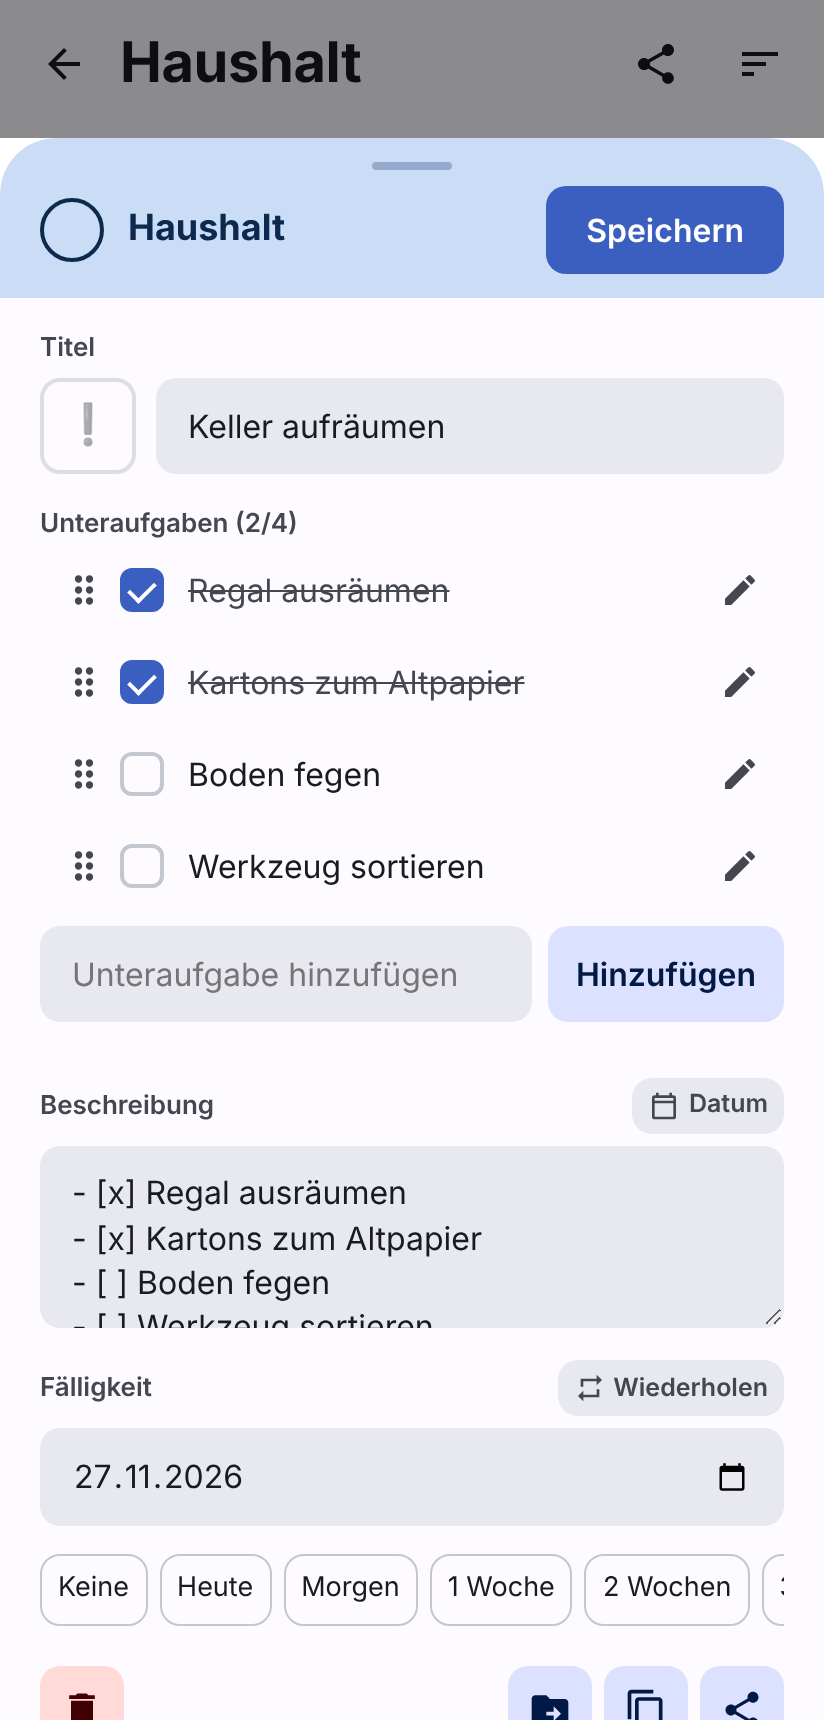
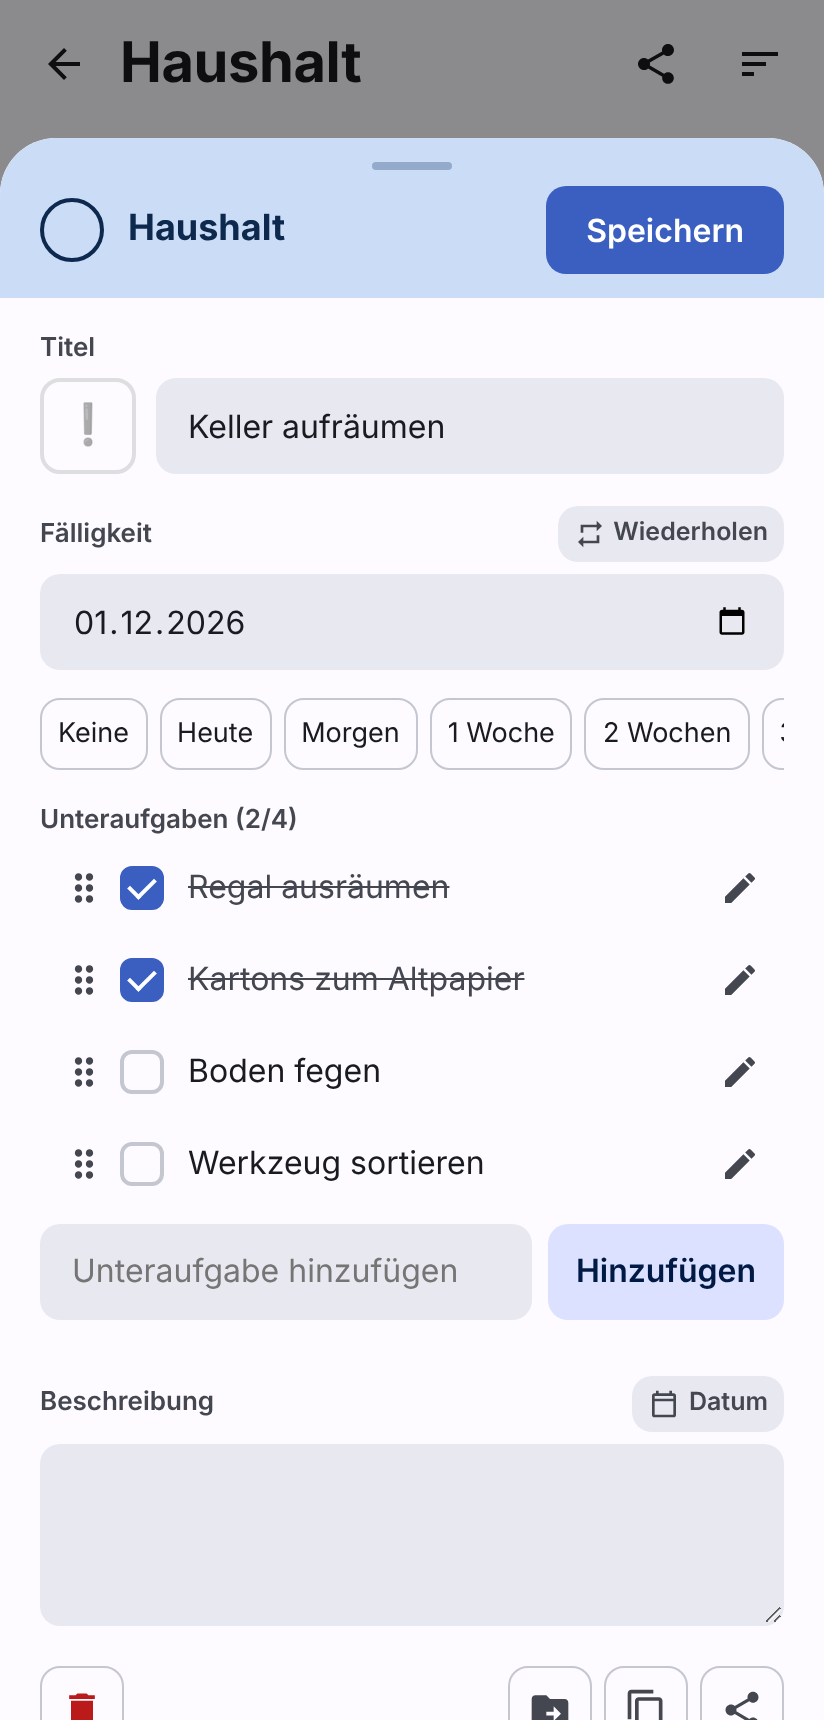
1.1.3: Punkte aus dem UI-Review
- Unteraufgaben im Dialog nur als Kästchen, Textfeld mit freiem Text
- Bearbeiten in der Reihenfolge von Neue Aufgabe
- Untere Dialog-Knöpfe umrandet statt gefüllt
- Einkaufsansicht ohne Plus-Knopf, Wochentitel "KW 48/49",
  Hinweis zum App-Namen ohne manifest.json
- Test e2e44, e2e33 angepasst, Screenshots neu

Claude-Session: https://claude.ai/code/session_01BsJ96owDJnezbsoGNxPtMU

diff --git a/app/js/sheet.js b/app/js/sheet.js
@@ -1,7 +1,7 @@
 // Bearbeiten-Dialog (Bottom Sheet) für einen Eintrag. Eigene Adresse: #/liste/<entity>/<uid>.
 // Das Sheet wird nur einmal gebaut. Spätere Änderungen im Store zeichnen es nicht neu, getippter Text bleibt erhalten.
 import { h, icon } from './ui.js';
-import { stripPrio, isPrio, withPrio, parseDue, withTimeOf, isCompleted, parseChecklist, toggleChecklistLine, addChecklistLine, setChecklistText, removeLine, insertLine, moveChecklistLine, moveChecklistLineToEnd, getRecurrence, stripRecurrence, setRecurrence, RECURRENCES, recurrenceLabel } from './rules.js';
+import { stripPrio, isPrio, withPrio, parseDue, withTimeOf, isCompleted, parseChecklist, splitChecklist, joinChecklist, toggleChecklistLine, addChecklistLine, setChecklistText, removeLine, insertLine, moveChecklistLine, moveChecklistLineToEnd, getRecurrence, stripRecurrence, setRecurrence, RECURRENCES, recurrenceLabel } from './rules.js';
 import { attachReorder } from './reorder.js';
 import { recurrenceButton } from './recurfield.js';
 import { attachSwipe } from './swipe.js';
@@ -102,7 +102,12 @@ export class ItemSheet {
     // Die Zeile "🔁 …" steht nicht im Textfeld, sondern als Auswahl "Wiederholen". Gespeichert wird sie wieder in der Beschreibung.
     const storedRecurrence = getRecurrence(item.description);
     const withStoredRecurrence = (text) => setRecurrence(text, storedRecurrence);
-    if (description) description.value = stripRecurrence(item.description ?? '');
+    // Unteraufgaben stehen ebenfalls nicht im Textfeld, sondern als Kästchen darüber. body hält die ganze Beschreibung
+    // (ohne Wiederholung), das Textfeld nur den freien Text. Beim Speichern wird beides wieder zusammengesetzt.
+    let body = stripRecurrence(item.description ?? '');
+    if (description) description.value = splitChecklist(body).text;
+    // Ganze Beschreibung aus Textfeld und Unteraufgaben. Unverändertes Textfeld: body bleibt wie er ist (keine unnötige Änderung).
+    const currentDescription = () => (description.value === splitChecklist(body).text ? body : joinChecklist(description.value, splitChecklist(body).checklist));
     if (description) description.id = 'sheet-description';
     // Kleiner Knopf: heutiges Datum (TT.MM.JJJJ) als Anfang der ersten Zeile der Beschreibung.
     // Nach dem Datum ein Leerzeichen, dort steht der Cursor zum Weiterschreiben. Vorhandener Text folgt in der nächsten Zeile. Gespeichert wird erst mit Speichern.
@@ -149,15 +154,16 @@ export class ItemSheet {
           t('sheet.subtaskButton'),
         )
       : null;
+    // Neue Unteraufgaben sofort speichern, zusammen mit dem freien Text, wie er gerade im Textfeld steht.
     const persistDescription = (next) => {
-      const previous = description.value;
-      description.value = next;
+      const previous = body;
+      body = joinChecklist(description.value, splitChecklist(next).checklist);
       renderChecklist();
-      const stored = withStoredRecurrence(next).trim() || null;
+      const stored = withStoredRecurrence(body).trim() || null;
       this.repo.updateItem(list.id, item.uid, { description: stored }).then(
         () => (item = { ...item, description: stored }),
         (err) => {
-          description.value = previous;
+          body = previous;
           renderChecklist();
           this.#fail(err);
         },
@@ -168,7 +174,7 @@ export class ItemSheet {
       const text = addInput.value.trim();
       if (!text) return;
       addInput.value = '';
-      persistDescription(addChecklistLine(description.value, text));
+      persistDescription(addChecklistLine(body, text));
     };
     addInput.addEventListener('keydown', (event) => {
       if (event.key === 'Enter') {
@@ -178,13 +184,13 @@ export class ItemSheet {
     });
     // Nach links wischen löscht die Unteraufgabe. Rückgängig setzt dieselbe Zeile an dieselbe Stelle zurück.
     const removeSub = (entry) => {
-      const { text, line } = removeLine(description.value, entry.index);
+      const { text, line } = removeLine(body, entry.index);
       persistDescription(text);
       this.toast.show(t('sheet.subtaskDeleted'), {
         actionLabel: t('common.undo'),
         onAction: () => {
           const stored = this.store.get().items[list.id]?.find((candidate) => candidate.uid === item.uid)?.description;
-          const next = insertLine(stored != null ? stripRecurrence(stored) : description.value, entry.index, line);
+          const next = insertLine(stored != null ? stripRecurrence(stored) : body, entry.index, line);
           if (this.#key === key) persistDescription(next);
           else this.repo.updateItem(list.id, item.uid, { description: withStoredRecurrence(next).trim() || null }).catch((err) => this.#fail(err));
         },
@@ -192,7 +198,7 @@ export class ItemSheet {
     };
     function renderChecklist() {
       if (!checklistBox) return;
-      const { items, total, done } = parseChecklist(description.value);
+      const { items, total, done } = parseChecklist(body);
       const rows = items.map((entry) => {
         const button = h(
           'button',
@@ -202,7 +208,7 @@ export class ItemSheet {
             role: 'checkbox',
             'aria-checked': String(entry.checked),
             onclick: () => {
-              let next = toggleChecklistLine(description.value, entry.index);
+              let next = toggleChecklistLine(body, entry.index);
               if (!entry.checked && getSubDoneLast()) next = moveChecklistLineToEnd(next, entry.index);
               persistDescription(next);
             },
@@ -219,7 +225,7 @@ export class ItemSheet {
             if (finished) return;
             finished = true;
             const text = input.value.trim();
-            if (save && text && text !== entry.text) persistDescription(setChecklistText(description.value, entry.index, text));
+            if (save && text && text !== entry.text) persistDescription(setChecklistText(body, entry.index, text));
             else renderChecklist();
           };
           input.addEventListener('keydown', (event) => {
@@ -247,7 +253,7 @@ export class ItemSheet {
       });
       const subList = h('ul', { class: 'plain-list sub-list' }, rows);
       attachReorder(subList, () => checklistBox.closest('.sheet'), (uid, previousUid) =>
-        persistDescription(moveChecklistLine(description.value, Number(uid), previousUid === null ? null : Number(previousUid))),
+        persistDescription(moveChecklistLine(body, Number(uid), previousUid === null ? null : Number(previousUid))),
       );
       // Ohne Unteraufgaben bleibt der Bereich zu, bis "+ Unteraufgabe" angetippt wird
       checklistBox.hidden = total === 0 && !subsOpen;
@@ -259,12 +265,11 @@ export class ItemSheet {
       );
     }
     renderChecklist();
-    if (description) description.addEventListener('input', renderChecklist);
 
     // Links, Adressen und Nummern aus Titel und Beschreibung als antippbare Knöpfe.
     const linkBox = h('div', { class: 'link-chips', role: 'group', 'aria-label': t('sheet.links'), hidden: true });
     const renderLinks = () => {
-      const found = findLinks(`${title.value}\n${description?.value ?? ''}`);
+      const found = findLinks(`${title.value}\n${description ? currentDescription() : ''}`);
       linkBox.replaceChildren(
         ...found.map((entry) =>
           h(
@@ -320,17 +325,8 @@ export class ItemSheet {
         h('div', { class: 'sheet-handle' }),
         h('div', { class: 'sheet-head sheet-head-edit' }, done, h('span', { class: 'sheet-band-name' }, list.name), save),
       ),
+      // Gleiche Reihenfolge wie bei einer neuen Aufgabe: Titel, Fälligkeit, Unteraufgaben, Beschreibung
       h('div', { class: 'field' }, h('label', { class: 'field-label', for: 'sheet-title' }, t('item.title')), h('div', { class: 'title-row' }, prio, title)),
-      checklistBox,
-      linkBox,
-      description
-        ? h(
-            'div',
-            { class: 'field' },
-            h('div', { class: 'label-row' }, h('label', { class: 'field-label', for: 'sheet-description' }, t('item.description')), h('span', { class: 'label-btns' }, subButton, dateStamp)),
-            description,
-          )
-        : null,
       due
         ? h(
             'div',
@@ -340,13 +336,23 @@ export class ItemSheet {
             quickDates(due),
           )
         : null,
+      checklistBox,
+      description
+        ? h(
+            'div',
+            { class: 'field' },
+            h('div', { class: 'label-row' }, h('label', { class: 'field-label', for: 'sheet-description' }, t('item.description')), h('span', { class: 'label-btns' }, subButton, dateStamp)),
+            description,
+          )
+        : null,
+      linkBox,
       h('div', { class: 'sheet-actions' }, actions),
     );
 
     title.addEventListener('input', () => (save.disabled = title.value.trim() === ''));
     form.addEventListener('submit', (event) => {
       event.preventDefault();
-      this.#save(list, item, { title, prio, description, due, originalDue, recurrence: recurrence?.state ?? null, done });
+      this.#save(list, item, { title, prio, description, descriptionText: description ? currentDescription : null, due, originalDue, recurrence: recurrence?.state ?? null, done });
     });
 
     const scrim = h('div', { class: 'sheet-scrim', onclick: () => this.#leave() });
@@ -380,7 +386,7 @@ export class ItemSheet {
     if (summary !== item.summary) changes.summary = summary;
     if (fields.description) {
       const recurrence = fields.recurrence ? fields.recurrence.value || null : getRecurrence(item.description);
-      const next = setRecurrence(fields.description.value, recurrence).trim() || null;
+      const next = setRecurrence(fields.descriptionText(), recurrence).trim() || null;
       if (next !== (item.description || null)) changes.description = next;
     }
     if (fields.due) {

diff --git a/app/js/rules.js b/app/js/rules.js
@@ -224,6 +224,21 @@ export function moveChecklistLineToEnd(description, index) {
   return lines.join('\n');
 }
 
+// Beschreibung für den Dialog aufteilen: freier Text (ohne Unteraufgaben) und die Unteraufgaben-Zeilen.
+export function splitChecklist(description) {
+  const lines = String(description ?? '').split('\n');
+  const text = lines.filter((line) => !CHECK_LINE.test(line));
+  const checklist = lines.filter((line) => CHECK_LINE.test(line));
+  return { text: text.join('\n').replace(/^\s*\n/, '').replace(/\s+$/, ''), checklist: checklist.join('\n') };
+}
+
+// Wieder zusammensetzen: freier Text, darunter die Unteraufgaben, ein Erledigt-Datum bleibt die letzte Zeile.
+export function joinChecklist(text, checklist) {
+  const lines = String(text ?? '').replace(/\s+$/, '').split('\n');
+  const stamp = DONE_STAMP.test(lines.at(-1) ?? '') ? lines.pop() : '';
+  return [lines.join('\n').replace(/\s+$/, ''), checklist, stamp].filter(Boolean).join('\n');
+}
+
 // Erledigt-Datum: letzte Zeile "✓ 08.11.2026". Beim Wieder-Öffnen fällt sie weg.
 const DONE_STAMP = /^✓ \S+$/;
 const dateStamp = (date) => date.toLocaleDateString(locale, { day: '2-digit', month: '2-digit', year: 'numeric' });

diff --git a/app/js/main.js b/app/js/main.js
@@ -160,7 +160,8 @@ function renderNow() {
   sortButton.classList.toggle('active', sortMode.value && !sortButton.hidden);
   sortButton.setAttribute('aria-pressed', String(sortMode.value));
   currentListId = view.name === 'list' ? view.id : null;
-  fab.hidden = !['lists', 'list'].includes(view.name) || !store.get().lists.some((list) => list.available && list.features.create);
+  // In der Einkaufsansicht kommt Neues über das Feld oben, der Plus-Knopf würde nur Kacheln verdecken
+  fab.hidden = !['lists', 'list'].includes(view.name) || shopping || !store.get().lists.some((list) => list.available && list.features.create);
   if (!shopping) shoppingBar.unmount();
   if (view.name === 'search') searchBar.mount();
   else searchBar.unmount();

diff --git a/app/css/app.css b/app/css/app.css
@@ -1728,6 +1728,17 @@ body:has(#fab:not([hidden])) #content {
   margin-right: 0;
 }
 
+/* Untere Knöpfe im Dialog zurückhaltend: Umriss in Textfarbe, Löschen nur mit rotem Symbol. "Speichern" oben bleibt die einzige kräftige Fläche. */
+.sheet-actions .btn-icon {
+  background: transparent;
+  color: var(--on-surface-variant);
+  border: 1px solid var(--outline);
+}
+
+.sheet-actions .btn-icon.btn-danger {
+  color: var(--error);
+}
+
 .sheet-actions .btn-primary {
   flex: none;
   padding-left: 16px;

diff --git a/app/sw.js b/app/sw.js
@@ -1,7 +1,7 @@
 // Service Worker: liefert die App-Dateien aus dem Cache, damit Merker auch ohne Netz startet.
 // Aktualisierung: Jede Version hat einen eigenen Cache, der bei der Installation komplett und am HTTP-Cache vorbei gefüllt wird.
 // CACHE_VERSION bei jeder Änderung an den App-Dateien erhöhen und mit js/version.js gleich halten.
-const CACHE_VERSION = '1.1.2';
+const CACHE_VERSION = '1.1.3';
 const CACHE_NAME = `merker-${CACHE_VERSION}`;
 
 const ASSETS = [

diff --git a/app/js/version.js b/app/js/version.js
@@ -1,2 +1,2 @@
 // Muss mit CACHE_VERSION in sw.js übereinstimmen, damit Updates der App-Dateien ankommen.
-export const APP_VERSION = '1.1.2';
+export const APP_VERSION = '1.1.3';

diff --git a/CHANGELOG.md b/CHANGELOG.md
@@ -2,6 +2,14 @@
 
 Neueste Version oben. Jede Version hat eine eigene Überschrift.
 
+## Version 1.1.3
+
+Aus dem UI-Review:
+- Unteraufgaben stehen im Dialog nur noch als Kästchen. Im Feld Beschreibung steht nur der freie Text, beim Speichern kommt beides wieder zusammen.
+- Bearbeiten hat dieselbe Reihenfolge wie Neue Aufgabe: Titel, Fälligkeit, Unteraufgaben, Beschreibung.
+- Die Knöpfe unten im Dialog sind nur noch umrandet, Löschen mit rotem Symbol. "Speichern" ist die einzige kräftige Fläche.
+- Einkaufsansicht ohne Plus-Knopf, Neues kommt über das Feld oben. Wochentitel als "KW 48/49". Hinweis zum App-Namen ohne Dateinamen.
+
 ## Version 1.1.2
 
 Erledigen im Dialog über einen Abhak-Kreis links vor dem Listennamen, wie in der Liste. Der Kreis schaltet nur um, erst "Speichern" übernimmt ihn zusammen mit den anderen Änderungen. Schließen ohne Speichern ändert nichts. Bei erledigten Aufgaben ist der Kreis gefüllt, Abwählen und Speichern öffnet sie wieder. Der Knopf "Wieder öffnen" unten entfällt.

diff --git a/README.de.md b/README.de.md
@@ -70,7 +70,7 @@ Für ein Update die Dateien ersetzen. Merker zeigt dann "Version … verfügbar"
 
 ## Entwicklung
 
-Reine ES-Module, kein Framework, kein Build-Schritt. Alles in `app/` wird unverändert kopiert. Befehle und Aufbau stehen im [englischen README](README.md#development). Merker entsteht mit Hilfe von KI (Claude Code, Regeln in `CLAUDE.md`). Bisher gab es mehr als 60 Versionen, ich nutze die App täglich, und sie ist mit 38 Browser-Tests und über 200 Prüfschritten gegen einen nachgebauten Home-Assistant-Server abgesichert.
+Reine ES-Module, kein Framework, kein Build-Schritt. Alles in `app/` wird unverändert kopiert. Befehle und Aufbau stehen im [englischen README](README.md#development). Merker entsteht mit Hilfe von KI (Claude Code, Regeln in `CLAUDE.md`). Bisher gab es mehr als 60 Versionen, ich nutze die App täglich, und sie ist mit 39 Browser-Tests und über 200 Prüfschritten gegen einen nachgebauten Home-Assistant-Server abgesichert.
 
 ## Lizenz
 

diff --git a/README.md b/README.md
@@ -92,7 +92,7 @@ npm run screenshots           # screenshots for this README
 - `scripts/`: set the version, build a zip, screenshots
 - `ha/`: update script for Home Assistant
 - `CHANGELOG.md`: all versions (German)
-- `CLAUDE.md`: rules and decisions for working on Merker with Claude Code. Merker is developed with AI assistance. It has had more than 60 releases so far, is used every day by its author and is covered by 38 browser tests with more than 200 checks against a mock Home Assistant server.
+- `CLAUDE.md`: rules and decisions for working on Merker with Claude Code. Merker is developed with AI assistance. It has had more than 60 releases so far, is used every day by its author and is covered by 39 browser tests with more than 200 checks against a mock Home Assistant server.
 
 ## License
 
